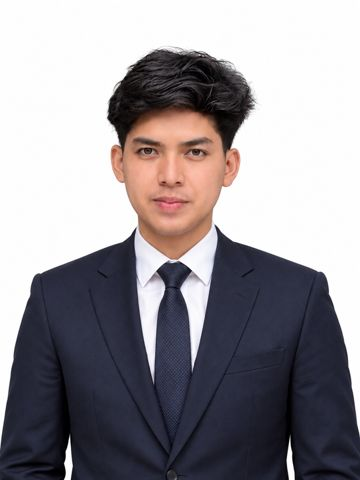
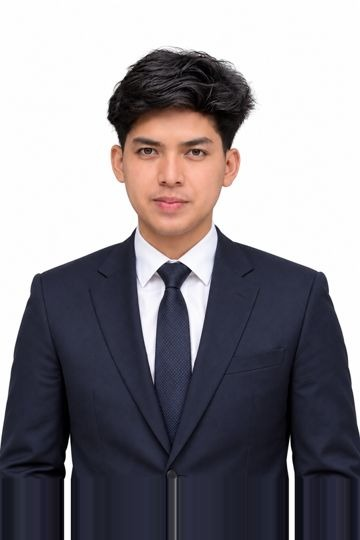
fix(ui): align team cards to identical 360x540, slim mobile header, and enforce 16:9 warehouse

diff --git a/public/assets/css/style.css b/public/assets/css/style.css
@@ -31,12 +31,12 @@ nav a.cta{background:var(--copper);color:#1a0f05;font-weight:600}
 nav a.cta:hover{background:#e29552}
 #mb{display:none;background:none;border:1px solid var(--line);color:#fff;width:42px;height:42px;border-radius:12px;font-size:20px;cursor:pointer}
 @media(max-width:768px){
-  header{padding:10px 16px;background:rgba(16,19,21,.5);-webkit-backdrop-filter:blur(12px);backdrop-filter:blur(12px);border-bottom:1px solid rgba(255,255,255,.08)}
-  header.scrolled{padding:8px 16px;background:rgba(16,19,21,.92)}
+  header{padding:8px 14px;background:rgba(16,19,21,.65);-webkit-backdrop-filter:blur(12px);backdrop-filter:blur(12px);border-bottom:1px solid rgba(255,255,255,.08)}
+  header.scrolled{padding:6px 14px;background:rgba(16,19,21,.94)}
   .logo{gap:8px}
-  .logo picture img, .logo img{height:28px;width:auto}
-  .nm{font-size:14px;line-height:1.15;letter-spacing:.04em}
-  #mb{width:36px;height:36px;font-size:18px;border-radius:8px}
+  .logo picture img, .logo img{height:26px;width:auto}
+  .nm{font-size:13px;line-height:1.15;letter-spacing:.03em}
+  #mb{width:34px;height:34px;font-size:16px;border-radius:6px}
 }
 /* pages */
 .page{display:none}.page.on{display:block}
@@ -66,10 +66,10 @@ nav a.cta:hover{background:#e29552}
 .g2{grid-template-columns:repeat(auto-fit,minmax(min(100%,320px),1fr))}.g3{grid-template-columns:repeat(auto-fit,minmax(min(100%,260px),1fr))}
 .col{border-top:3px solid var(--copper);padding-top:18px}.col h3{margin-bottom:8px}
 .split{display:grid;gap:clamp(28px,5vw,72px);grid-template-columns:repeat(auto-fit,minmax(min(100%,360px),1fr));align-items:center}
-.split picture{display:block;width:100%;overflow:hidden;border-radius:10px}
-.split picture img, .split img{width:100%;border-radius:10px;aspect-ratio:16/9;max-height:240px;object-fit:cover;object-position:center;box-shadow:0 8px 24px rgba(0,0,0,.35);display:block}
+.split picture, .split-pic{display:block;width:100%;overflow:hidden;border-radius:10px}
+.split picture img, .split img, .split-img{width:100%;border-radius:10px;aspect-ratio:16/9;max-height:230px;object-fit:cover;object-position:center 20%;box-shadow:0 8px 24px rgba(0,0,0,.35);display:block}
 @media(min-width:769px){
-  .split picture img, .split img{aspect-ratio:4/3;max-height:none}
+  .split picture img, .split img, .split-img{aspect-ratio:4/3;max-height:none}
 }
 .link{display:inline-block;margin-top:22px;font-weight:600;border-bottom:2px solid var(--copper);padding-bottom:2px}
 /* material swatches */
@@ -90,7 +90,8 @@ nav a.cta:hover{background:#e29552}
 .tl div{position:relative}.tl div::before{content:"";position:absolute;left:-37px;top:8px;width:14px;height:14px;border-radius:50%;background:var(--copper);box-shadow:0 0 0 5px var(--paper)}
 .team{display:grid;grid-template-columns:repeat(auto-fit,minmax(min(100%,220px),1fr));gap:20px;margin-top:44px}
 .team figure{background:var(--graphite);border-radius:6px;overflow:hidden}
-.team img{width:100%;aspect-ratio:3/4;object-fit:cover;object-position:top;background:#fff}
+.team picture{display:block;width:100%}
+.team picture img, .team img{width:100%;height:auto;display:block;background:#fff}
 .team figcaption{padding:14px 16px;font-family:var(--hf);font-weight:600;font-size:20px;letter-spacing:.04em;border-top:3px solid var(--copper)}
 .info{display:grid;gap:14px}.info div{padding:20px 22px;border-left:3px solid var(--copper);background:rgba(255,255,255,.05)}
 .info small{display:block;color:var(--copper);font-weight:600;font-size:14px;margin-bottom:2px}

diff --git a/resources/views/layouts/app.blade.php b/resources/views/layouts/app.blade.php
@@ -21,8 +21,8 @@
   <!-- Preload Hero LCP Image for instant first paint -->
   <link rel="preload" as="image" href="{{ asset('assets/images/hero-bg-hd.webp') }}" type="image/webp">
 
-  <!-- Main Stylesheet (Cache-busted v2.5) -->
-  <link rel="stylesheet" href="{{ asset('assets/css/style.css') }}?v=2.5">
+  <!-- Main Stylesheet (Cache-busted v3.0) -->
+  <link rel="stylesheet" href="{{ asset('assets/css/style.css') }}?v=3.0">
   @stack('styles')
 </head>
 <body>
@@ -34,8 +34,8 @@
 
   @include('partials.footer')
 
-  <!-- Main JavaScript (Deferred, Cache-busted v2.5) -->
-  <script src="{{ asset('assets/js/main.js') }}?v=2.5" defer></script>
+  <!-- Main JavaScript (Deferred, Cache-busted v3.0) -->
+  <script src="{{ asset('assets/js/main.js') }}?v=3.0" defer></script>
   @stack('scripts')
 </body>
 </html>

diff --git a/resources/views/pages/home.blade.php b/resources/views/pages/home.blade.php
@@ -46,10 +46,10 @@
   </section>
   <section class="sec dark">
     <div class="split">
-      <picture>
+      <picture class="split-pic">
         <source media="(max-width: 900px)" srcset="{{ asset('assets/images/warehouse-hd.webp') }}" type="image/webp">
         <source srcset="{{ asset('assets/images/warehouse-full.webp') }}" type="image/webp">
-        <img src="{{ asset('assets/images/warehouse.jpg') }}" alt="Gudang material pipa baja" width="1100" height="734" loading="lazy">
+        <img class="split-img" src="{{ asset('assets/images/warehouse.jpg') }}" alt="Gudang material pipa baja" width="1100" height="734" loading="lazy">
       </picture>
       <div>
         <h2>Dibangun untuk kemitraan jangka panjang</h2>

diff --git a/resources/views/pages/team.blade.php b/resources/views/pages/team.blade.php
@@ -15,7 +15,7 @@
       <figure>
         <picture>
           <source srcset="{{ asset('assets/images/team-1.webp') }}" type="image/webp">
-          <img src="{{ asset('assets/images/team-1.jpg') }}" alt="Komisaris Utama" width="360" height="480" loading="lazy">
+          <img src="{{ asset('assets/images/team-1.jpg') }}" alt="Komisaris Utama" width="360" height="540" loading="lazy">
         </picture>
         <figcaption>Komisaris Utama</figcaption>
       </figure>
